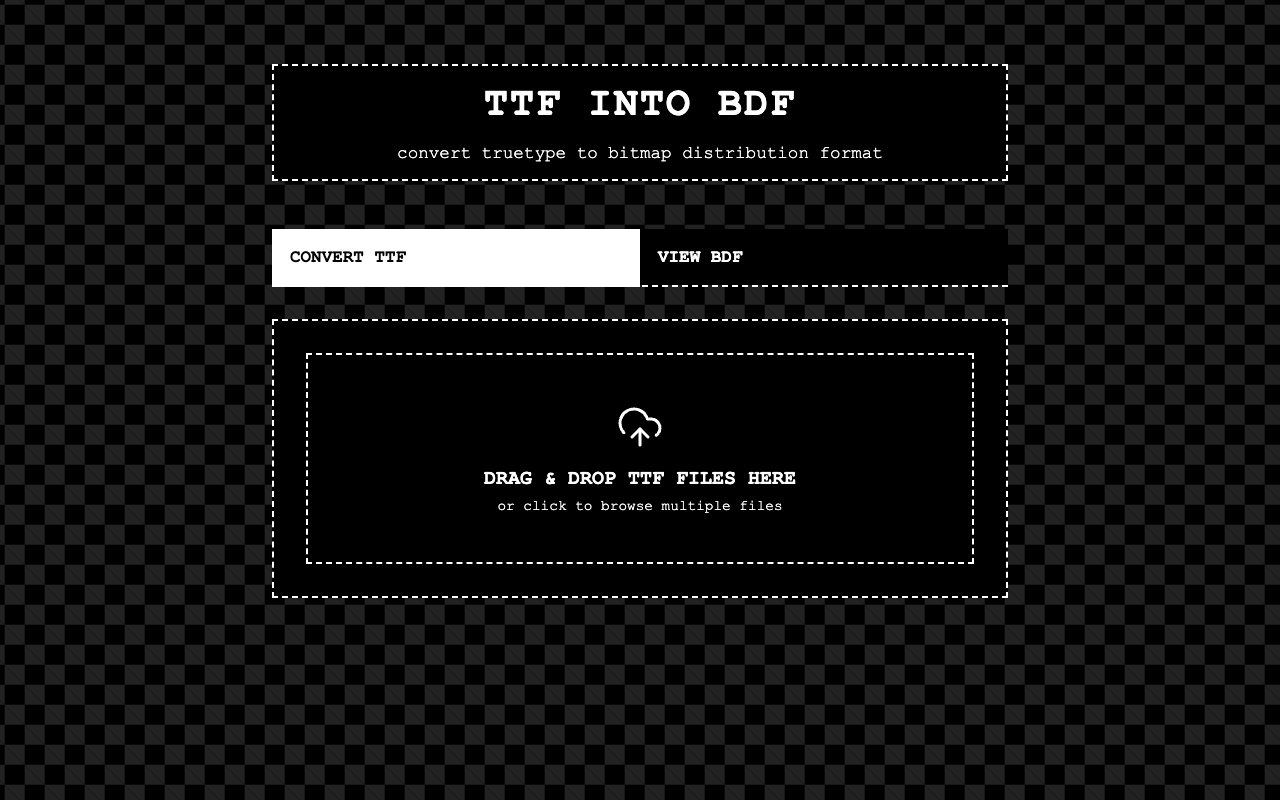
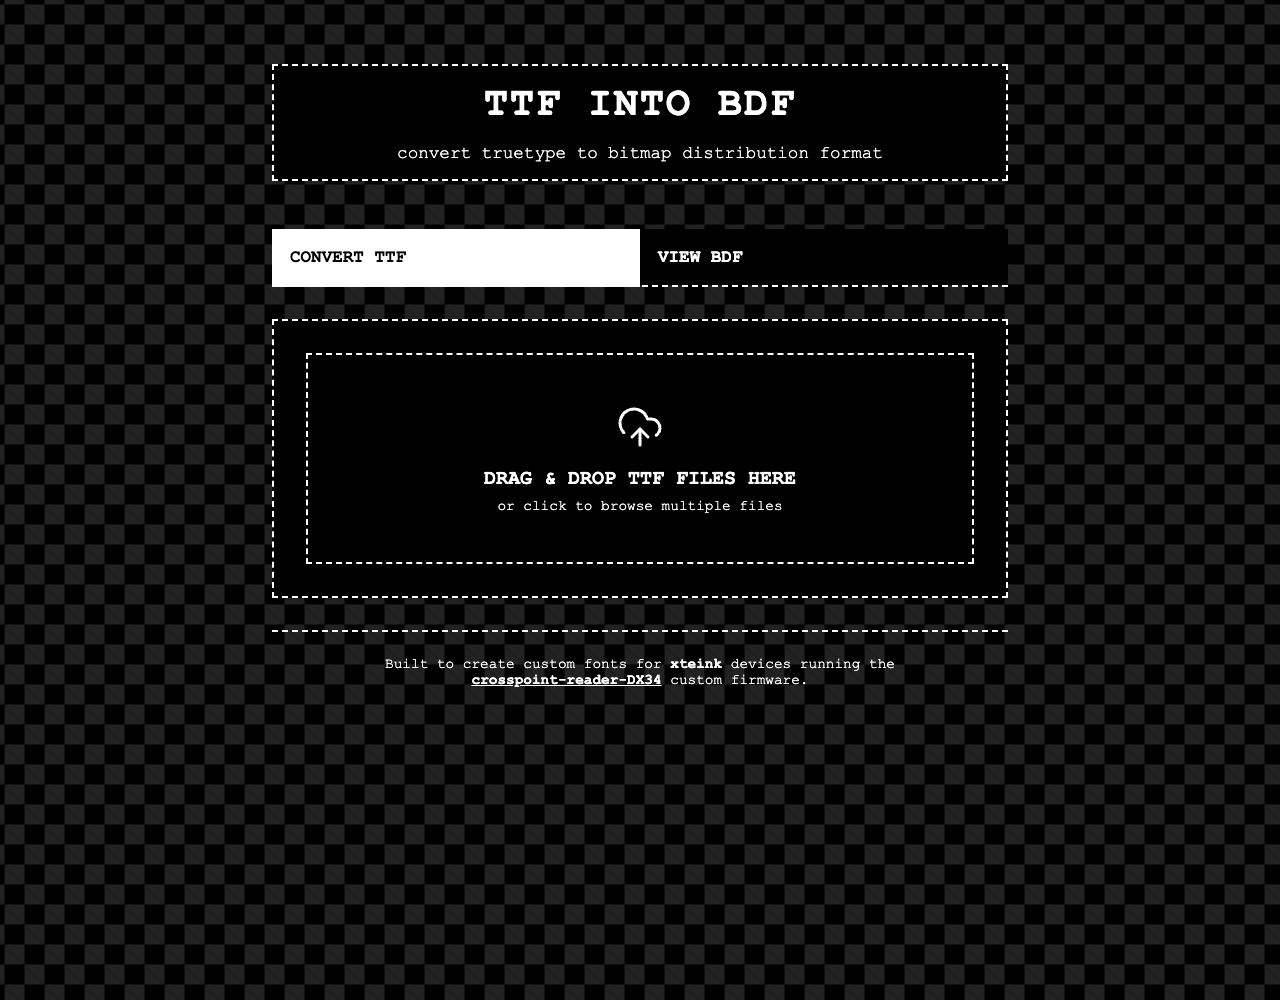
feat: add firmware link, update screenshot, enforce font naming rules

diff --git a/src/App.tsx b/src/App.tsx
@@ -135,7 +135,7 @@ function App() {
     return sizesInput
       .split(',')
       .map(s => parseInt(s.trim()))
-      .filter(s => !isNaN(s) && s > 0 && s <= 200);
+      .filter(s => !isNaN(s) && s >= 4 && s <= 255);
   };
 
   const handleConvert = async () => {
@@ -158,11 +158,39 @@ function App() {
 
       for (const file of files) {
         const buffer = await file.arrayBuffer();
-        const baseName = file.name.replace(/\.ttf$/i, '');
+        
+        const baseNameRaw = file.name.replace(/\.ttf$/i, '');
+        const parts = baseNameRaw.split(/[\s_-]+/);
+        let isBold = false;
+        let isItalic = false;
+        const nameParts: string[] = [];
+        
+        for (const part of parts) {
+          const lower = part.toLowerCase();
+          if (lower === 'bold') isBold = true;
+          else if (lower === 'italic' || lower === 'oblique') isItalic = true;
+          else if (lower === 'bolditalic' || lower === 'italicbold') {
+            isBold = true;
+            isItalic = true;
+          } else {
+            nameParts.push(part);
+          }
+        }
+        
+        let parsedName = nameParts.join('-');
+        parsedName = parsedName.replace(/[^a-zA-Z0-9-]/g, '-').replace(/-+/g, '-').replace(/^-|-$/g, '');
+        if (!parsedName) parsedName = 'font';
+        
+        let variant = '';
+        if (isBold && isItalic) variant = '-bolditalic';
+        else if (isBold) variant = '-bold';
+        else if (isItalic) variant = '-italic';
+        
+        const finalNameBase = `${parsedName}${variant}`;
         
         for (const size of sizes) {
           const bdfText = await convertTtfToBdf(buffer, size);
-          const fileName = `${baseName}_${size}px.bdf`;
+          const fileName = `${finalNameBase}_${size}.bdf`;
           
           if (isMultiple) {
             zip.file(fileName, bdfText);
@@ -441,6 +469,20 @@ function App() {
           </>
         )}
       </main>
+
+      <footer style={{ marginTop: '2rem', textAlign: 'center', fontSize: '0.9rem', borderTop: '2px dashed var(--border-color)', paddingTop: '1.5rem', paddingBottom: '1rem' }}>
+        <p>
+          Built to create custom fonts for <strong>xteink</strong> devices running the <br />
+          <a 
+            href="https://github.com/diogo7dias/crosspoint-reader-DX34" 
+            target="_blank" 
+            rel="noopener noreferrer"
+            style={{ color: 'var(--text-main)', textDecoration: 'underline', fontWeight: 'bold' }}
+          >
+            crosspoint-reader-DX34
+          </a> custom firmware.
+        </p>
+      </footer>
     </div>
   );
 }

diff --git a/README.md b/README.md
@@ -38,3 +38,7 @@ npm run build
 ## Aesthetic
 
 Features a 90s retro web hacker aesthetic with a pure black & white palette, dashed borders, and a moving CSS-only pixel checkerboard background.
+
+## About xteink
+
+Built to create custom fonts for **xteink** devices running the [crosspoint-reader-DX34](https://github.com/diogo7dias/crosspoint-reader-DX34) custom firmware.
